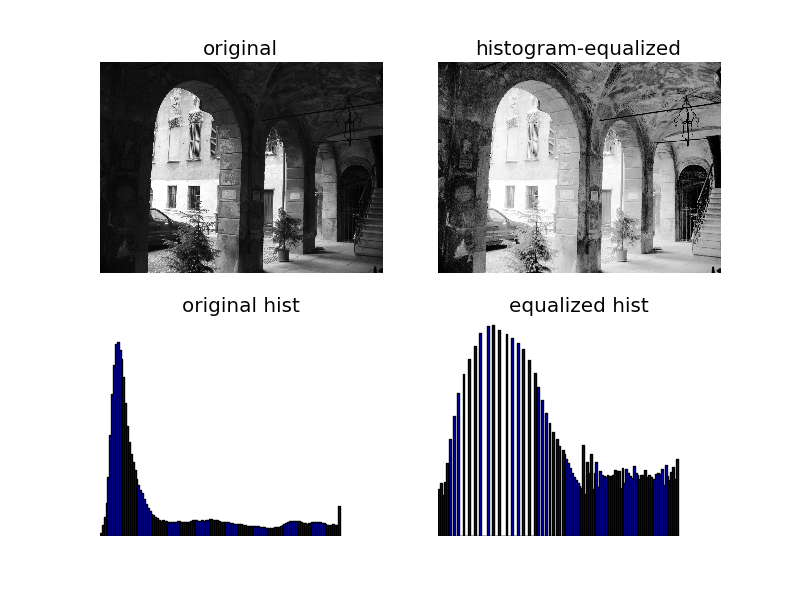
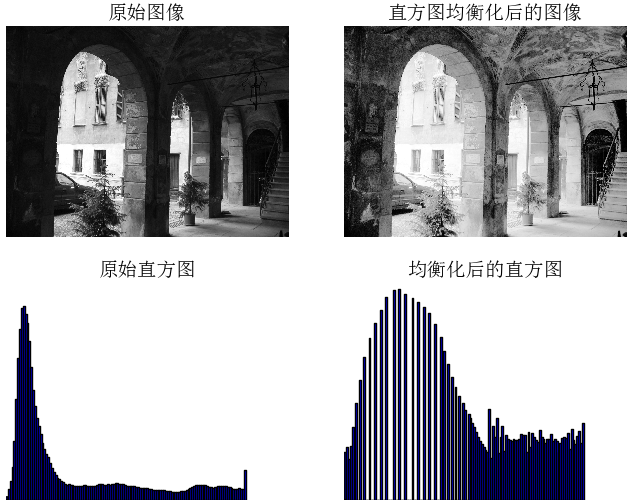
add new content in ch01

diff --git a/chapter1.md b/chapter1.md
@@ -284,71 +284,113 @@ im[-2,:] (or im[-2]) # second to last row
 
 <h3 id="sec-1-3-2">1.3.2 灰度变换</h3>
 
-下面代码是显示原书第9页中figure1-5的例子：
+在读入图像到NumPy数组后，就可以对它进行任何我们想要的操作了。对图像进行灰度变换便是一个简单的例子。这里给出一些进行灰度变换的例子：
 
 ```python
-# -*- coding: utf-8 -*-
+ # -*- coding: utf-8 -*-
 from PIL import Image
 from numpy import *
 from pylab import *
 
 im = array(Image.open('../data/empire.jpg').convert('L'))
+print int(im.min()), int(im.max())
+
 im2 = 255 - im  # invert image
+print int(im2.min()), int(im2.max())
+
 im3 = (100.0/255) * im + 100  # clamp to interval 100...200
+print int(im3.min()), int(im3.max())
+
 im4 = 255.0 * (im/255.0)**2  # squared
+print int(im4.min()), int(im4.max())
 
 figure()
 gray()
 subplot(1, 3, 1)
 imshow(im2)
 axis('off')
+title(r'$f(x)=255-x$')
 
 subplot(1, 3, 2)
 imshow(im3)
 axis('off')
+title(r'$f(x)=\frac{100}{255}x+100$')
 
 subplot(1, 3, 3)
 imshow(im4)
 axis('off')
-
+title(r'$f(x)=255(\frac{x}{255})^2$')
 show()
 ```
-运行上面代码，分别可以得到书中的结果：
+上面左边灰度变换函数采用的是f(x)=255-x,中间采用的是f(x)=(100/255)x+100,右边采用的是变换函数是f(x)=255(x/255)^2。运行上面代码，可以得到P009 Fig1-5中的结果：
 ![ch01_fig1-5_graylevel-transforms](assets/images/figures/ch01/ch01_fig1-5_graylevel-transforms.png)
 
-<h2 id="sec-1-1">1.3 直方图均衡化</h2>
-另外一个灰度变换中非常有用的例子是直方图均衡化，下面是对图像直方图进行均衡化处理的例子：
+正如上面代码所示，你可以用通过下面命令检查每幅图像的最小值和最大值：
+
+```text
+print int(im.min()), int(im.max())
+```
+如果你对每幅图像用到了打印最小像素值和最大像素值，你会得到下面的输出结果：
+
+```text
+2 255
+0 253
+100 200
+0 255
+```
+
+<h3 id="sec-1-3-3">1.3-3 调整图像尺寸</h3>
+
+NumPy数组将成为我们对图像及数据进行处理的最主要工具，但是调整矩阵大小并没有一种简单的方法。我们可以用PIL图像对象转换写一个简单的图像尺寸调整函数：
 
 ```python
+def imresize(im,sz):
+    """    Resize an image array using PIL. """
+    pil_im = Image.fromarray(uint8(im))
+    
+    return array(pil_im.resize(sz))
+```
+上面定义的调整函数，在imtools.py中你可以找到它。
+
+<h2 id="sec-1-3-3">1.3.3 直方图均衡化</h2>
+
+一个极其有用的例子是灰度变换后进行直方图均衡化。图像均衡化作为预处理操作，在归一化图像强度时是一个很好的方式，并且通过直方图均衡化可以增加图像对比度。下面是对图像直方图进行均衡化处理的例子：
+
+```python
+ # -*- coding: utf-8 -*-
 from PIL import Image
 from pylab import *
 from PCV.tools import imtools
 
-#im = array(Image.open('../data/empire.jpg').convert('L'))
-im = array(Image.open('../data/AquaTermi_lowcontrast.JPG').convert('L'))
+# 添加中文字体支持
+from matplotlib.font_manager import FontProperties
+font = FontProperties(fname=r"c:\windows\fonts\SimSun.ttc", size=14)
+
+im = array(Image.open('../data/empire.jpg').convert('L'))  # 打开图像，并转成灰度图像
+#im = array(Image.open('../data/AquaTermi_lowcontrast.JPG').convert('L'))
 im2, cdf = imtools.histeq(im)
 
 figure()
 subplot(2, 2, 1)
 axis('off')
 gray()
-title('original')
+title(u'原始图像', fontproperties=font)
 imshow(im)
 
 subplot(2, 2, 2)
 axis('off')
-title('histogram-equalized')
+title(u'直方图均衡化后的图像', fontproperties=font)
 imshow(im2)
 
 subplot(2, 2, 3)
 axis('off')
-title('original hist')
+title(u'原始直方图', fontproperties=font)
 #hist(im.flatten(), 128, cumulative=True, normed=True)
 hist(im.flatten(), 128, normed=True)
 
 subplot(2, 2, 4)
 axis('off')
-title('equalized hist')
+title(u'均衡化后的直方图', fontproperties=font)
 #hist(im2.flatten(), 128, cumulative=True, normed=True)
 hist(im2.flatten(), 128, normed=True)
 
@@ -358,7 +400,43 @@ show()
 ![ch01_fig1-6_histeq](assets/images/figures/ch01/ch01_fig1-6_histeq.png)
 ![ch01_fig1-7_histeq](assets/images/figures/ch01/ch01_fig1-7_histeq.png)
 
-<h2 id="sec-1-1">1.4 对图像进行主成分分析</h2>
+<h3 id="sec-1-3-4">1.3.4 图像平均</h3>
+
+对图像取平均是一种图像降噪的简单方法，经常用于产生艺术效果。假设所有的图像具有相同的尺寸，我们可以对图像相同位置的像素相加取平均，下面是一个演示对图像取平均的例子：
+
+```python
+# -*- coding: utf-8 -*-
+from PCV.tools.imtools import get_imlist
+from PIL import Image
+from pylab import *
+from PCV.tools import imtools
+
+# 添加中文字体支持
+from matplotlib.font_manager import FontProperties
+font = FontProperties(fname=r"c:\windows\fonts\SimSun.ttc", size=14)
+
+filelist = get_imlist('../data/avg/') #获取convert_images_format_test文件夹下的图片文件名(包括后缀名)
+avg = imtools.compute_average(filelist)
+
+for impath in filelist:
+        im1 = array(Image.open(impath))
+        subplot(2, 2, filelist.index(impath)+1)
+        imshow(im1)
+        imNum=str(filelist.index(impath)+1)
+        title(u'待平均图像'+imNum, fontproperties=font)
+        axis('off')
+subplot(2, 2, 4)
+imshow(avg)
+title(u'平均后的图像', fontproperties=font)
+axis('off')
+
+show()
+```
+运行上面代码，可得对3幅图像平均后的效果，如下图：
+![ch10_P011_avg](assets/images/figures/ch01/ch10_P011_avg)
+
+<h2 id="sec-1-3-4">1.3.4 对图像进行主成分分析</h2>
+
 下面代码是显示原书P15页对字体图像进行主成分分析的实例代码：
 
 ```python
